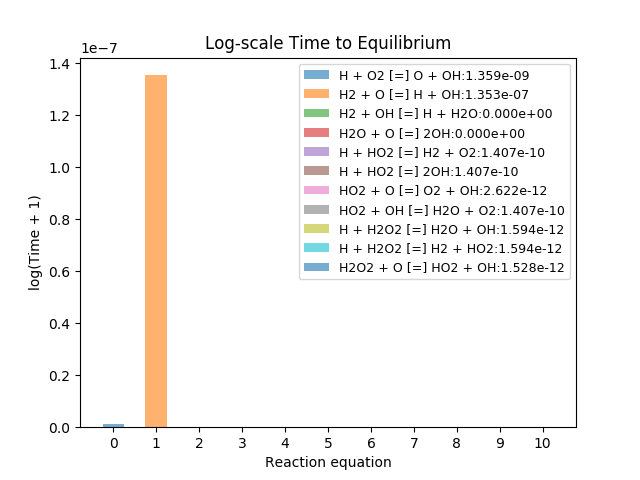
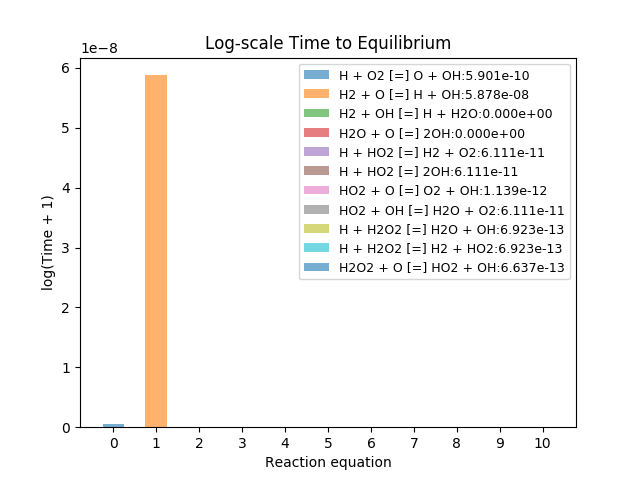
changed solver

diff --git a/chemkin/viz/summary.py b/chemkin/viz/summary.py
@@ -112,7 +112,7 @@ def plot_species_concentration(parsed_data_list, xi, n_steps=101, end_t=1e-12):
 	return test_flag
 
 
-def print_time_to_equilibrium(parsed_data_list, xi, n_steps=101, end_t=100):
+def print_time_to_equilibrium(parsed_data_list, xi, n_steps=101):
 	test_flag = 0 # time_to_equilibrium can be printed
 	for parsed_data in parsed_data_list:
 
@@ -130,6 +130,7 @@ def print_time_to_equilibrium(parsed_data_list, xi, n_steps=101, end_t=100):
 			print('--------------------------------\n')
 			continue
 
+		end_t = 1e10
 		time_steps = np.linspace(0, end_t, n_steps)
 		critical_t, overall_critical_t = ElementaryRxn(ki, b_ki, xi, sys_vi_p, sys_vi_dp).time_to_equilibrium(T, end_t, n_steps)
 
@@ -150,7 +151,7 @@ def print_time_to_equilibrium(parsed_data_list, xi, n_steps=101, end_t=100):
 
 
 
-def plot_time_to_equilibrium(parsed_data_list, xi, n_steps=101, end_t=100):
+def plot_time_to_equilibrium(parsed_data_list, xi, n_steps=101):
 	test_flag = 0 # time_to_equilibrium can be plotted
 	for parsed_data in parsed_data_list:
 
@@ -168,6 +169,7 @@ def plot_time_to_equilibrium(parsed_data_list, xi, n_steps=101, end_t=100):
 			print('--------------------------------\n')
 			continue
 
+		end_t = 1e10
 		time_steps = np.linspace(0, end_t, n_steps)
 		critical_t, overall_critical_t = ElementaryRxn(ki, b_ki, xi, sys_vi_p, sys_vi_dp).time_to_equilibrium(T, end_t, n_steps)
 		
@@ -181,11 +183,11 @@ def plot_time_to_equilibrium(parsed_data_list, xi, n_steps=101, end_t=100):
 			if v == -100:
 				yval[j] = 0
 			else:
-				yval[j] = np.log(v+1)
+				yval[j] = np.log10(v+1)
 		labels = parsed_data['equations']
 
 		for j, (x, y) in enumerate(zip(xpos, yval)):
-			ax2.bar(x, y, width=0.5, bottom=0.0, align='center', alpha=0.6, label=labels[j]+':'+str('{:0.3e}'.format(yval[j])))
+			ax2.bar(x, y, width=0.5, bottom=0.0, align='center', alpha=0.6, label=labels[j]+':'+str('{:0.3e}'.format(y)))
 		
 		ax2.legend(fontsize=9)
 		ax2.set_xlabel('Reaction equation')

diff --git a/demo_ODEsolver.py b/demo_ODEsolver.py
@@ -4,7 +4,7 @@ from chemkin.viz import summary
 
 
 # Ti = [100, 900, 1500, 2500, 7000] # temp held constant
-Ti = [900, 1500, 2500]
+Ti = [1500]
 xi = [2., 1., .5, 1., 1., 1., .5, 1.] # specie concentrations
 xml_parser = XmlParser(pckg_xml_path('rxns_reversible'))
 
